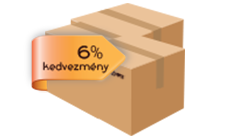
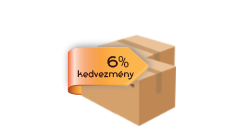
fixes

diff --git a/application/views/order/step2.php b/application/views/order/step2.php
@@ -59,7 +59,7 @@
                 if($product->term==1){
                     $image = '<img style="margin-bottom:10px;"  src="' . URL::base(TRUE, FALSE) . 'assets/img/1box.png"><br/>';
                 } elseif($product->term==2){
-                    $image = '<img style="margin-bottom:46px;width:200px;height:100px"  src="' . URL::base(TRUE, FALSE) . 'assets/img/6salesok.png"><br/>';
+                    $image = '<img style="margin-bottom:10px;"  src="' . URL::base(TRUE, FALSE) . 'assets/img/6salesok.png"><br/>';
                 } elseif($product->term==3){
                     $image = '<img style="margin-bottom:10px;"  src="' . URL::base(TRUE, FALSE) . 'assets/img/10salesok.png"><br/>';
                 }
